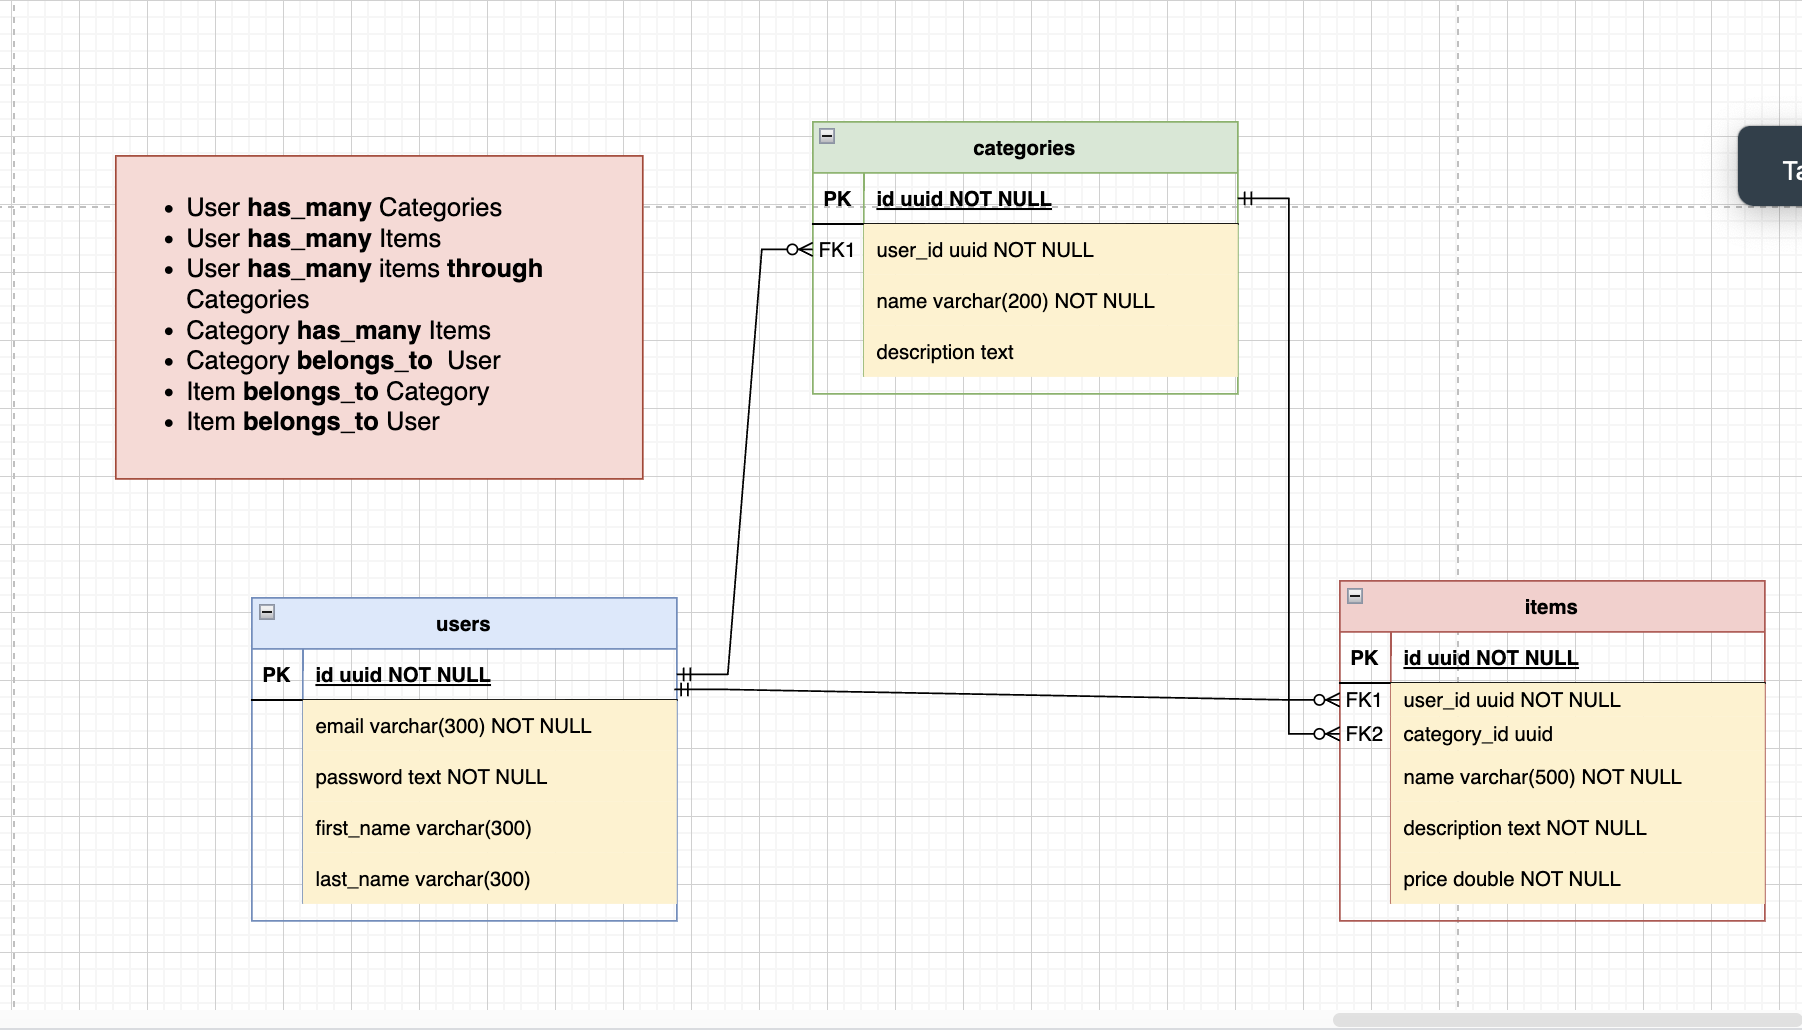
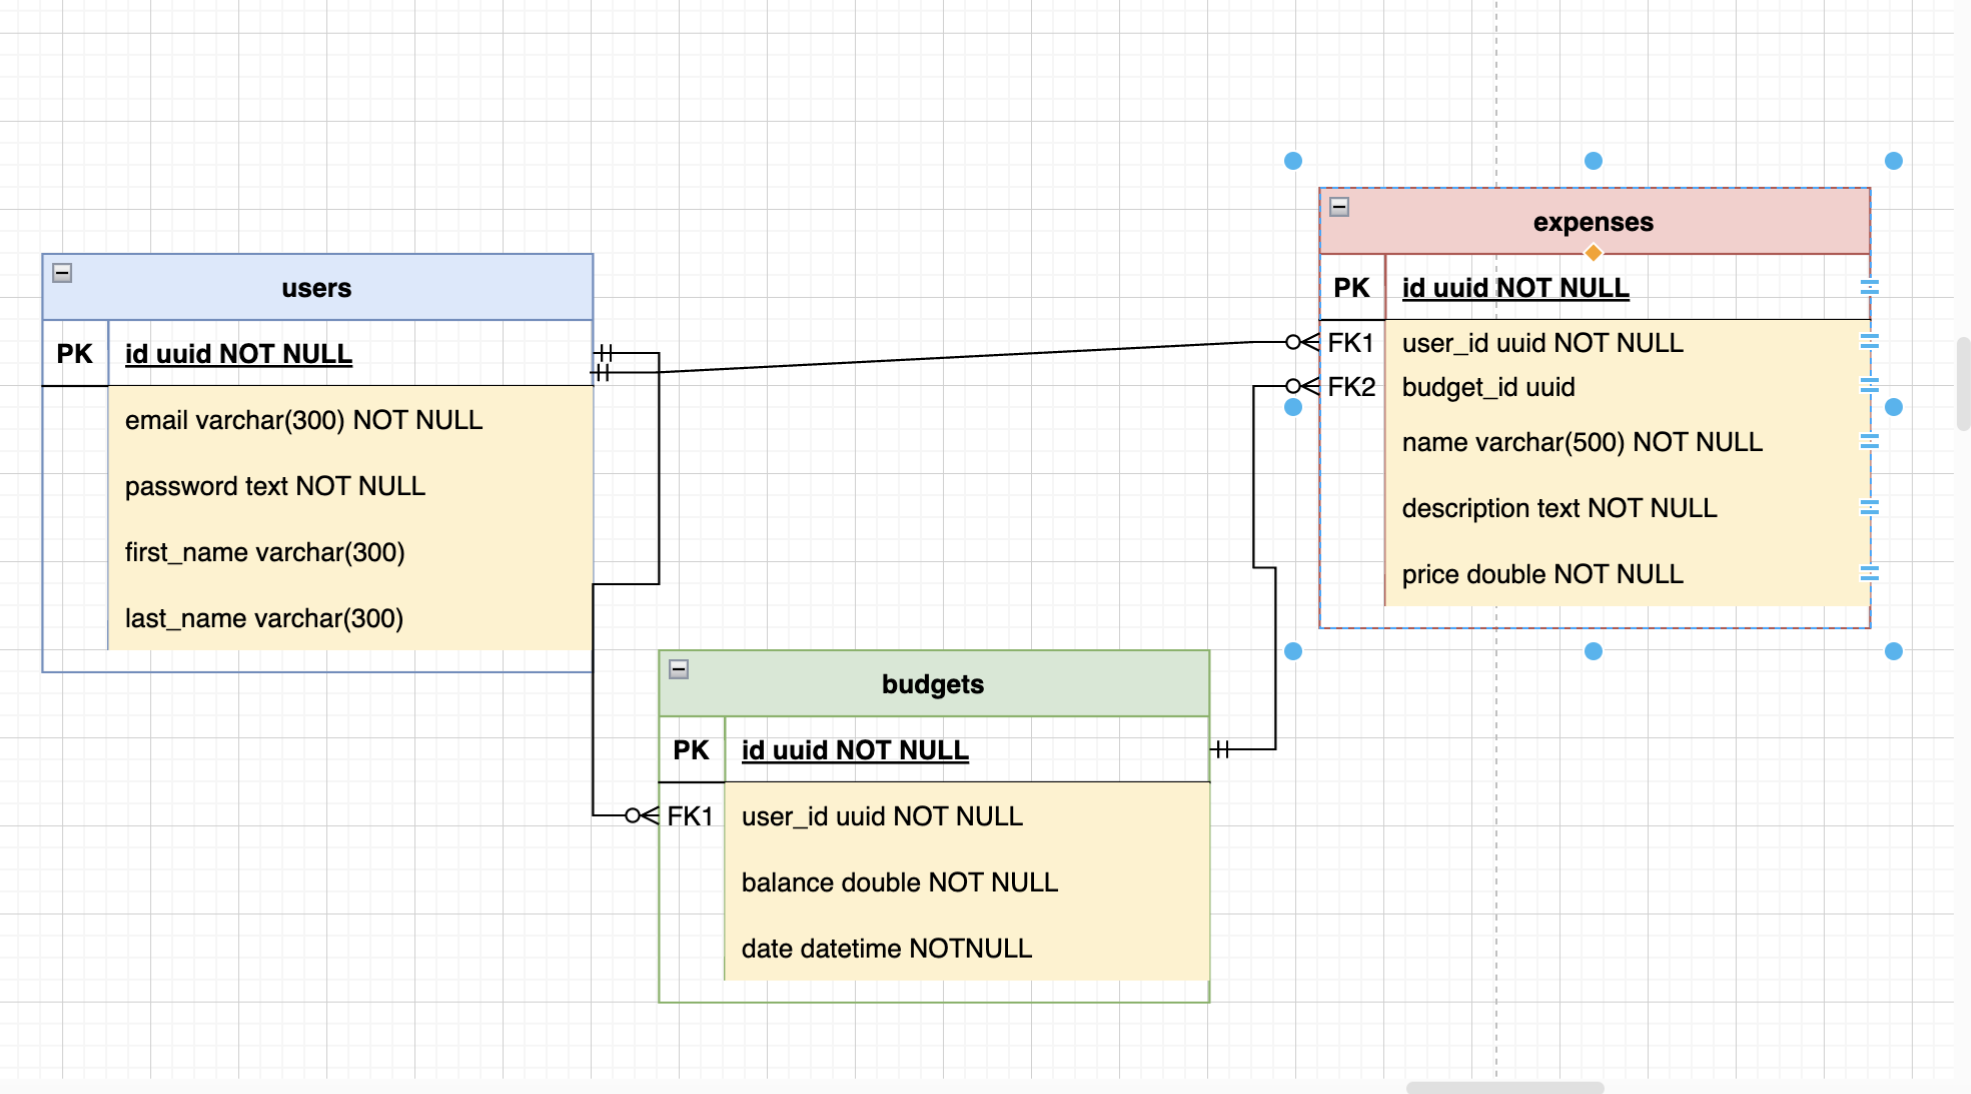
Update README.md and ERD.png

diff --git a/README.md b/README.md
@@ -1,6 +1,6 @@
 # Description
 
-Budgeteer is a budget app designed to allow people to take control of their finances. With Budgeteer, users can create custom budget categories and add items to these categories, allowing them to  monitor their income, expenses, and financial goals.
+Budgeteer is a budget app designed to allow people to take control of their finances. With Budgeteer, users can create custom budget categories and add expenses to these categories, allowing them to  monitor their income, expenses, and financial goals.
 
 # User Stories
 
@@ -30,52 +30,52 @@ Budgeteer is a budget app designed to allow people to take control of their fina
 **As a user**, I want to view the details of a specific budget category.
 
 **Acceptance Criteria:**
-- Users can click on a category to view its details, including its name and associated items.
+- Users can click on a category to view its details, including its name and associated expenses.
 - Users are presented with an error message if the category does not exist.
 
 **As a user**, I want to see a list of all my budget categories for an overview.
 
 **Acceptance Criteria:**
 - Users can access a list of all their budget categories.
-- The list displays category names and, if available, the number of associated items.
+- The list displays category names and, if available, the number of associated expenses.
 
 **As a user**, I want the option to delete a budget category that I no longer need.
 
 **Acceptance Criteria:**
 - Users can delete a budget category.
-- Deletion of a category should not affect associated items.
+- Deletion of a category should not affect associated expenses.
 
-## Managing Items
+## Managing expenses
 
-**As a user**, I want to add a budget item to a specific category to track my expenses accurately.
-
-**Acceptance Criteria:**
-- Users can add a budget item to a category by providing item details such as name, amount, and description.
-- Users receive a confirmation message upon successful item addition.
-
-**As a user**, I want the ability to update a budget item's details to ensure they are current.
+**As a user**, I want to add a budget expense to a specific category to track my expenses accurately.
 
 **Acceptance Criteria:**
-- Users can edit a budget item's name, amount, or description.
-- Changes to an item's name should not conflict with existing item names within the same category.
+- Users can add a budget expense to a category by providing expense details such as name, amount, and description.
+- Users receive a confirmation message upon successful expense addition.
 
-**As a user**, I want to view the details of a specific budget item to track its information.
-
-**Acceptance Criteria:**
-- Users can click on an item to view its details, including name, amount, and description.
-- Users are presented with an error message if the item does not exist.
-
-**As a user**, I want to see a list of all budget items within a specific category.
+**As a user**, I want the ability to update a budget expense's details to ensure they are current.
 
 **Acceptance Criteria:**
-- Users can access a list of all budget items within a category.
-- The list displays item names, amounts, and descriptions, if available.
+- Users can edit a budget expense's name, amount, or description.
+- Changes to an expense's name should not conflict with existing expense names within the same category.
 
-**As a user**, I want the option to delete a budget item when it's no longer relevant.
+**As a user**, I want to view the details of a specific budget expense to track its information.
 
 **Acceptance Criteria:**
-- Users can delete a budget item.
-- Deletion of an item should not affect the category or other associated items.
+- Users can click on an expense to view its details, including name, amount, and description.
+- Users are presented with an error message if the expense does not exist.
+
+**As a user**, I want to see a list of all budget expenses within a specific category.
+
+**Acceptance Criteria:**
+- Users can access a list of all budget expenses within a category.
+- The list displays expense names, amounts, and descriptions, if available.
+
+**As a user**, I want the option to delete a budget expense when it's no longer relevant.
+
+**Acceptance Criteria:**
+- Users can delete a budget expense.
+- Deletion of an expense should not affect the category or other associated expenses.
 
 # Budgeteer ERD
 ![ERD.png](ERD.png)
